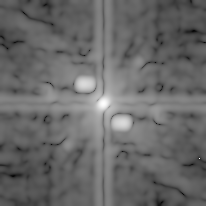
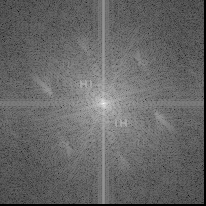
not working low pass method

diff --git a/Spring2024/B657/a-secret-message/fourier2-1.py b/Spring2024/B657/a-secret-message/fourier2-1.py
@@ -1,5 +1,4 @@
 from scipy import fftpack
-from scipy import stats as st
 from scipy import ndimage
 import imageio.v2 as imageio
 import numpy as np
@@ -11,11 +10,11 @@ def get_spectogram(image):
     return (np.log(abs(fft2)) * 255 / np.amax(np.log(abs(fft2)))).astype(np.uint8)
 
 
-def gkern(kernlen=21, nsig=3):
-    x = np.linspace(-nsig, nsig, kernlen + 1)
-    kern1d = np.diff(st.norm.cdf(x))
-    kern2d = np.outer(kern1d, kern1d)
-    return kern2d / kern2d.sum()
+def get_kernel(size, sigma=1.0):
+    x = np.zeros((size, size))
+    x[size // 2, size // 2] = 1
+    y = ndimage.filters.gaussian_filter(x, sigma=sigma)
+    return y / y.sum()
 
 
 if __name__ == "__main__":
@@ -51,15 +50,20 @@ if __name__ == "__main__":
     # space. Here's a little example (that makes a nearly
     # imperceptible change, but demonstrates what you can do.
 
-    # fft2[1, 1] = fft2[1, 1] + 1
+    # The Secret Message is: HI
+    # I tried to use low pass filtering with a gussian kernel to remove the secret message from the image. The gaussian kernel was applied through the entire image in a 2x2 window with an offset of 2.
+    offset = size = 2
+    kernel = get_kernel(size, 30)
+    fft2_new = fft2.copy()
 
-    # Workspace Start
-    fft2 = ndimage.gaussian_filter(fft2, 3, radius=30)
-
-    imageio.imsave(
-        os.path.join(CURR_DIR, "convolved.png"),
-        (np.log(abs(fft2)) * 255 / np.amax(np.log(abs(fft2)))).astype(np.uint8),
-    )
+    for i in range(0, fft2_new.shape[0], offset):
+        for j in range(0, fft2_new.shape[1], offset):
+            if i + size > fft2_new.shape[0] or j + size > fft2_new.shape[1]:
+                continue
+            fft2_new[i : i + size, j : j + size] = (
+                fft2_new[i : i + size, j : j + size] * kernel
+            )
+    fft2 = fft2_new
 
     # Workspace End
 
